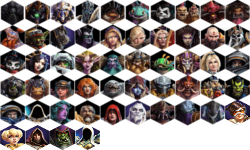
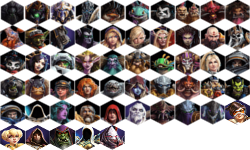
Add alarak

Changed region(s): [[0.392, 0.8267, 0.504, 1.0]]

diff --git a/src/js/constants.js b/src/js/constants.js
@@ -58,6 +58,7 @@ export const RESET_LAYOUT = 'RESET_LAYOUT';
 
 export const HEROES = [
   { value: 'Abathur', label: 'Abathur'},
+  { value: 'Alarak', label: 'Alarak'},
   { value: 'Anubarak', label: 'Anub\'arak'},
   { value: 'Artanis', label: 'Artanis'},
   { value: 'Arthas', label: 'Arthas'},

diff --git a/src/less/hero-portraits.less b/src/less/hero-portraits.less
@@ -63,3 +63,4 @@
 .Medivh         { background-position:  -25px -125px; }
 .Guldan         { background-position:  -50px -125px; }
 .Auriel         { background-position:  -75px -125px; }
+.Alarak         { background-position: -100px -125px; }
